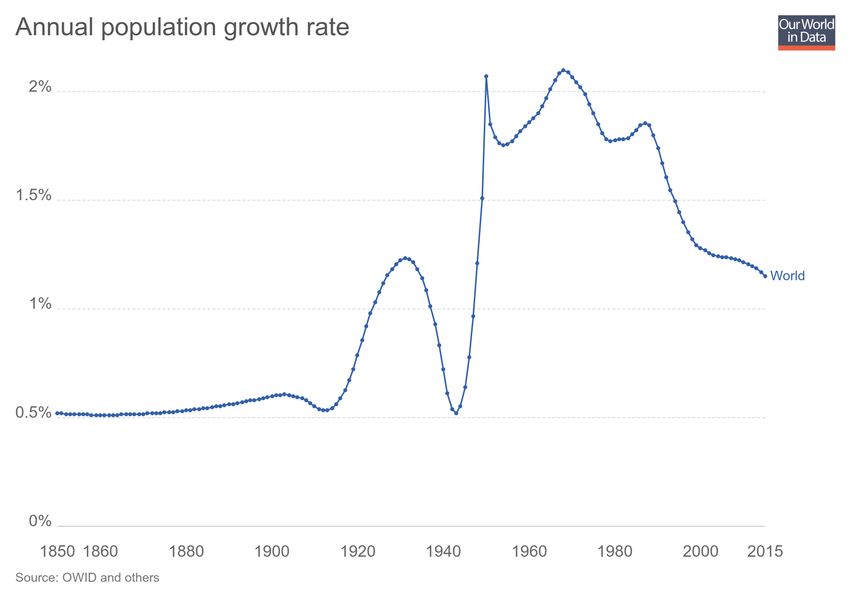
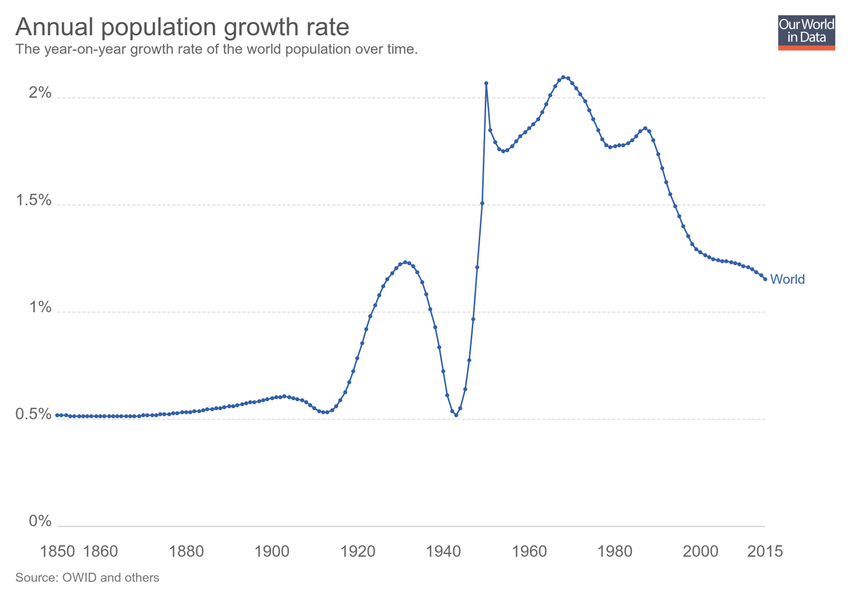
Updating chart annual-population-growth-rate

diff --git a/grapher/annual-population-growth-rate.html b/grapher/annual-population-growth-rate.html
@@ -1,4 +1,4 @@
-<!doctype html><html><head><meta name="viewport" content="width=device-width, initial-scale=1" /><title>Annual population growth rate - Our World in Data</title><meta name="description" content="An interactive visualization from Our World in Data." /><link rel="canonical" href="https://ourworldindata.org/grapher/annual-population-growth-rate" /><meta property="fb:app_id" content="1149943818390250" /><meta property="og:url" content="https://ourworldindata.org/grapher/annual-population-growth-rate" /><meta property="og:title" content="Annual population growth rate" /><meta property="og:description" content="An interactive visualization from Our World in Data." /><meta property="og:image" content="https://ourworldindata.org/grapher/exports/annual-population-growth-rate.png?v=2" /><meta property="og:image:width" content="850" /><meta property="og:image:height" content="600" /><meta property="og:site_name" content="Our World in Data" /><meta name="twitter:card" content="summary_large_image" /><meta name="twitter:site" content="@OurWorldInData" /><meta name="twitter:creator" content="@OurWorldInData" /><meta name="twitter:title" content="Annual population growth rate" /><meta name="twitter:description" content="An interactive visualization from Our World in Data." /><meta name="twitter:image" content="https://ourworldindata.org/grapher/exports/annual-population-growth-rate.png?v=2" /><style>
+<!doctype html><html><head><meta name="viewport" content="width=device-width, initial-scale=1" /><title>Annual population growth rate - Our World in Data</title><meta name="description" content="The year-on-year growth rate of the world population over time." /><link rel="canonical" href="https://ourworldindata.org/grapher/annual-population-growth-rate" /><meta property="fb:app_id" content="1149943818390250" /><meta property="og:url" content="https://ourworldindata.org/grapher/annual-population-growth-rate" /><meta property="og:title" content="Annual population growth rate" /><meta property="og:description" content="The year-on-year growth rate of the world population over time." /><meta property="og:image" content="https://ourworldindata.org/grapher/exports/annual-population-growth-rate.png?v=3" /><meta property="og:image:width" content="850" /><meta property="og:image:height" content="600" /><meta property="og:site_name" content="Our World in Data" /><meta name="twitter:card" content="summary_large_image" /><meta name="twitter:site" content="@OurWorldInData" /><meta name="twitter:creator" content="@OurWorldInData" /><meta name="twitter:title" content="Annual population growth rate" /><meta name="twitter:description" content="The year-on-year growth rate of the world population over time." /><meta name="twitter:image" content="https://ourworldindata.org/grapher/exports/annual-population-growth-rate.png?v=3" /><style>
         html, body {
             height: 100%;
             margin: 0;
@@ -20,8 +20,8 @@
         }
     </style><noscript><style>
                     figure { display: none !important; }
-                </style></noscript><link rel="stylesheet" href="https://ourworldindata.org/grapher/assets/commons.bundle.397229a8467cf53bfc99.css" /><link rel="preload" href="/grapher/data/variables/97957.json?v=2" as="fetch" crossorigin /></head><body class="singleChart"><figure data-grapher-src="/grapher/annual-population-growth-rate"></figure><noscript id="fallback"><img src="/grapher/exports/annual-population-growth-rate.svg" /><p>Interactive visualization requires JavaScript</p></noscript><script src="https://cdn.polyfill.io/v2/polyfill.min.js?features=es6,fetch"></script><script src="https://ourworldindata.org/grapher/assets/commons.bundle.397229a8467cf53bfc99.js"></script><script src="https://ourworldindata.org/grapher/assets/charts.bundle.397229a8467cf53bfc99.js"></script><script>
-        var jsonConfig = {"id":3021,"map":{"projection":"World","colorSchemeLabels":[],"colorSchemeValues":[],"customNumericColors":[],"customCategoryColors":{},"customCategoryLabels":{},"customHiddenCategories":{}},"tab":"chart","slug":"annual-population-growth-rate","type":"LineChart","title":"Annual population growth rate","xAxis":{"scaleType":"linear"},"yAxis":{"scaleType":"linear"},"minTime":1850,"version":2,"hasMapTab":false,"stackMode":"absolute","dimensions":[{"display":{},"property":"y","variableId":97957}],"isAutoSlug":true,"hasChartTab":true,"isPublished":true,"selectedData":[{"index":0,"entityId":355}],"addCountryMode":"add-country"};
+                </style></noscript><link rel="stylesheet" href="https://ourworldindata.org/grapher/assets/commons.bundle.397229a8467cf53bfc99.css" /><link rel="preload" href="/grapher/data/variables/97957.json?v=3" as="fetch" crossorigin /></head><body class="singleChart"><figure data-grapher-src="/grapher/annual-population-growth-rate"></figure><noscript id="fallback"><img src="/grapher/exports/annual-population-growth-rate.svg" /><p>Interactive visualization requires JavaScript</p></noscript><script src="https://cdn.polyfill.io/v2/polyfill.min.js?features=es6,fetch"></script><script src="https://ourworldindata.org/grapher/assets/commons.bundle.397229a8467cf53bfc99.js"></script><script src="https://ourworldindata.org/grapher/assets/charts.bundle.397229a8467cf53bfc99.js"></script><script>
+        var jsonConfig = {"id":3021,"map":{"projection":"World","colorSchemeLabels":[],"colorSchemeValues":[],"customNumericColors":[],"customCategoryColors":{},"customCategoryLabels":{},"customHiddenCategories":{}},"tab":"chart","slug":"annual-population-growth-rate","type":"LineChart","title":"Annual population growth rate","xAxis":{"scaleType":"linear"},"yAxis":{"scaleType":"linear"},"minTime":1850,"version":3,"subtitle":"The year-on-year growth rate of the world population over time.","hasMapTab":false,"stackMode":"absolute","dimensions":[{"display":{},"property":"y","variableId":97957}],"hasChartTab":true,"isPublished":true,"selectedData":[{"index":0,"entityId":355}],"addCountryMode":"add-country"};
         var figure = document.getElementsByTagName("figure")[0];
         try {
             window.App = {};
